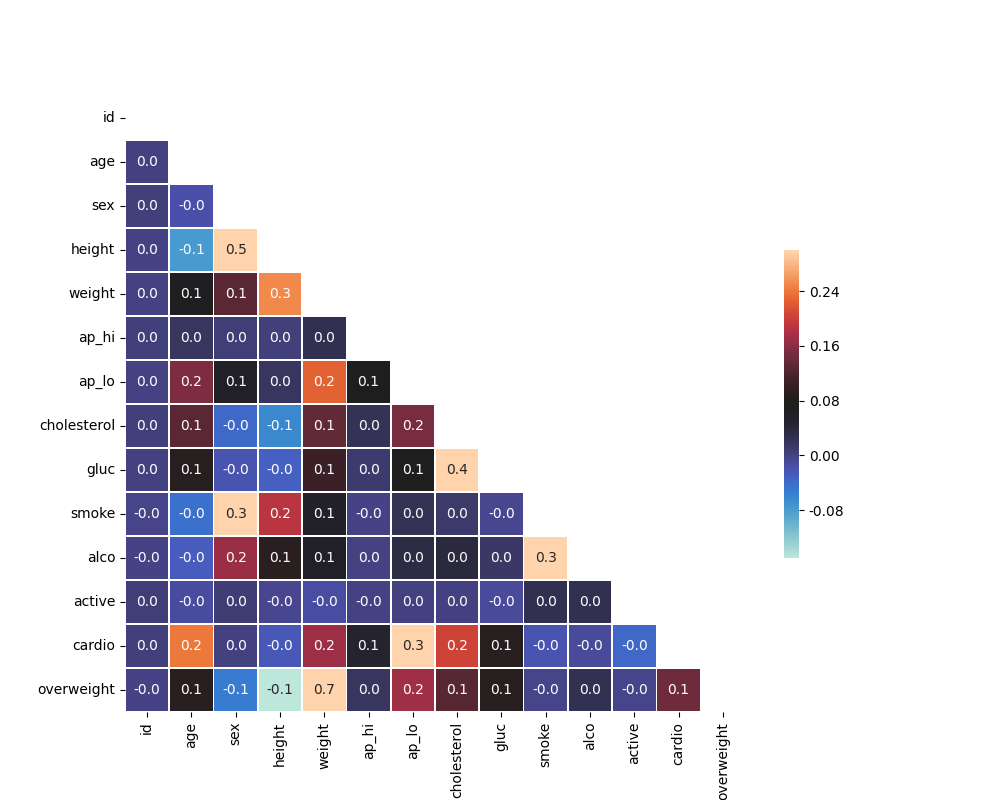
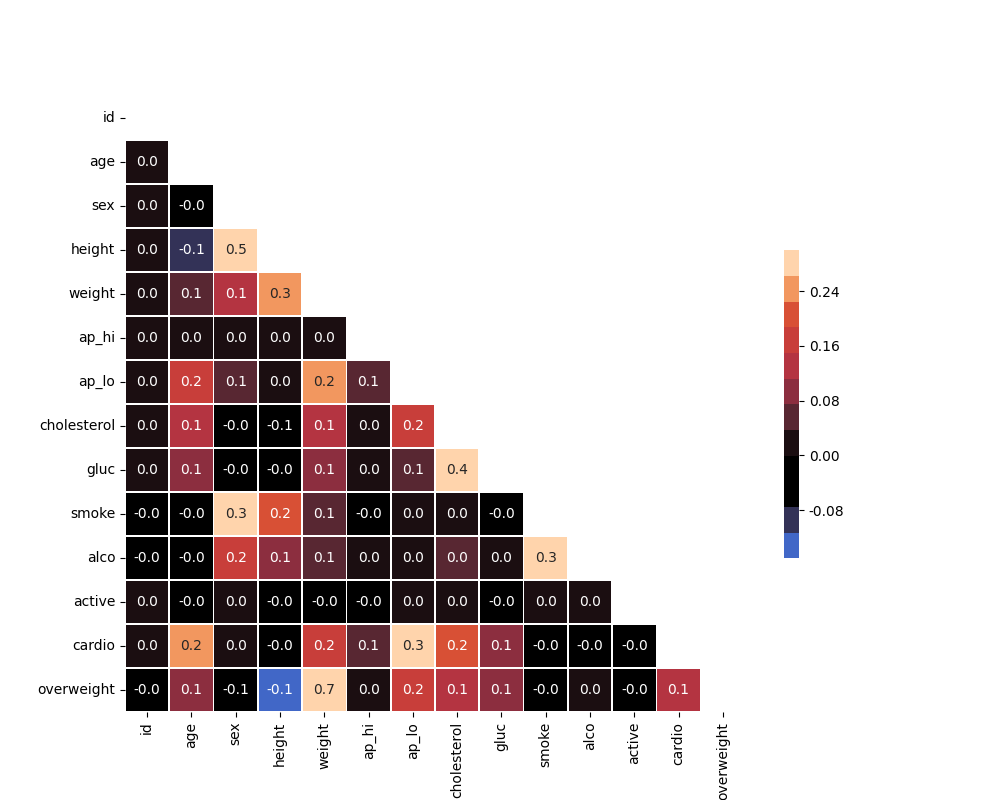
Improve colours

Changed region(s): [[0.124, 0.1562, 0.713, 0.9062], [0.775, 0.4062, 0.806, 0.7188], [0.775, 0.3125, 0.806, 0.375]]

diff --git a/medical_data_visualizer.py b/medical_data_visualizer.py
@@ -58,7 +58,7 @@ def draw_heat_map():
     fig, ax = plt.subplots(figsize=(10, 8))
 
     # Draw the heatmap with 'sns.heatmap()'
-    cmap = sns.color_palette("icefire", as_cmap=True)
+    cmap = sns.color_palette('blend:#4167c7,#38365f,#000000,#000000,#000000,#48242c,#6a2b3a,#a83044,#bb363f,#cc4139,#da5334,#f49d63,#ffd4ac', n_colors=12)
     sns.heatmap(corr, mask=mask, annot=True, fmt='.1f', linewidth='.5', ax=ax, vmin=-0.15, vmax=0.3, cbar_kws={"shrink": 0.5, "format": "%0.2f", "ticks": [-0.08, 0.00, 0.08, 0.16, 0.24]}, cmap=cmap)
 
     # Do not modify the next two lines
